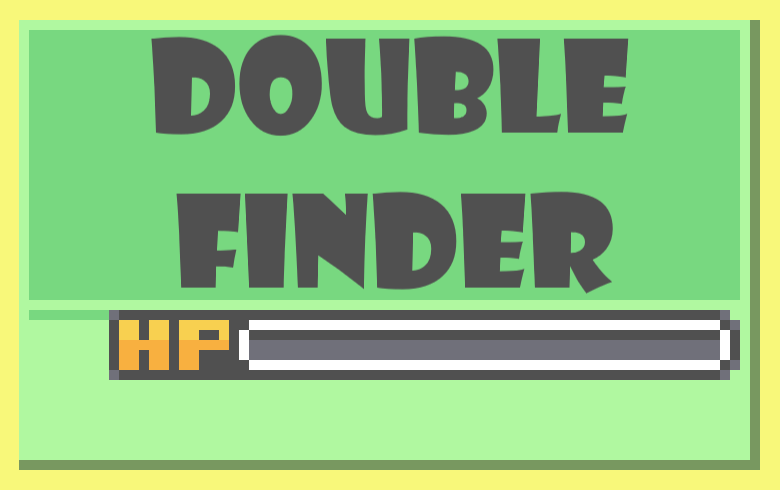
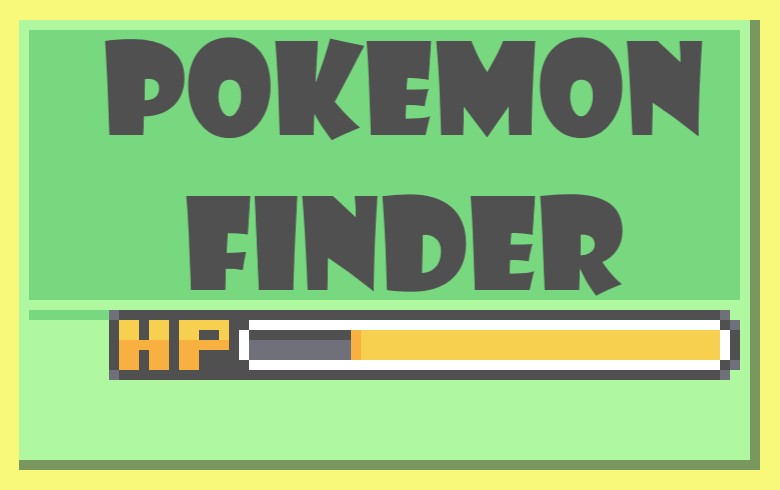
all v1

diff --git a/src/DoubleFinder.jsx b/src/DoubleFinder.jsx
@@ -1,3 +1,111 @@
+import './DoubleFinder.css'
+import DBResource from './DBResource'
+import { useNavigate } from "react-router-dom";
+import React, { Link, useState, useEffect } from 'react';
+import Select from 'react-select'
+import { Tooltip } from 'react-tooltip'
 export default function DoubleFinder() {
-    return (<div>welcom to doublefinder</div>);
+
+    const [pokemon, setPokemon] = useState([]);
+    const [pokedexCalled, setPokedexCalled] = useState(false);
+    const [pokedex, setPokedex] = useState("");
+    const [usersFound, setUsersFound] = useState([]);
+    const [imgUrl, setImgUrl] = useState([]);
+    const [testArray, setTestArray] = useState([1,2,3,4,5,6,7,8,9,10]);
+    useEffect(() => {
+        (async () => {
+          if(!pokedexCalled){
+            setPokedexCalled(true);
+            console.log("calling pokedex:");
+            const foundPokemon  = await resource.getPokedex();
+            console.log(foundPokemon);
+            setPokemon(foundPokemon) ;
+          }
+        })();},[]);
+
+      //static contextType = ThemeContext;
+    
+      let navigate = useNavigate(); 
+      const resource = new DBResource();
+
+      const routeTodex = () =>{ 
+        let path = `/`; 
+        navigate(path);
+      }
+
+      const routeToSelf = () =>{ 
+        let path = ``; 
+        navigate(path);
+      }
+
+      const onChangeHandler = (change) => {
+        setPokedex(change.value);
+        (async () => {
+          console.log("finding users for pokedex:" + change.value);
+          const data  = await resource.getUsersWhoOwnPokemon(change.value);
+          console.log( data);
+          setUsersFound(data);
+
+          const imageUrl2 = new URL(
+            "/pokemon/Normal/" + change.value + ".png",
+            import.meta.url
+          ).href;
+          setImgUrl(imageUrl2);
+          })()
+      
+      };
+
+
+    return (
+<div className="wholeSite">
+    <div className="content">
+    <div className='menu'>
+
+      <button onClick={routeTodex}  className='pokedexMenuItemContainer menuItemContainer'></button>
+      <button onClick={routeToSelf} className='doubleFinderMenuItemContainer menuItemContainer'></button>
+      <button className='ExplenationMenuItemContainer menuItemContainer'></button>
+      <button className='aboutSiteMenuItemContainer menuItemContainer'></button>
+      </div>
+
+      <div className="header">
+        <img src='/streamingfalcon.png' alt="Image" className="logo" /><h1>Pokemon finder</h1><img src="yogieisbar.png" alt="Image" className="logo" />
+      </div>
+      <div className='selectorWrapper'>
+      <div className='selector'>
+           <h4 className='selectTitle'>
+            Pokemon:
+            </h4><div className='selectAndTooltip' >
+              <Select className='selectorSelect'  options={pokemon} onChange={onChangeHandler}  defaultValue={"pokemon"}></Select>
+              <div className="selectIcon">
+              <img data-tooltip-id="my-tooltip"  className='selectIconImg' src="/unown-question.png"></img>
+              <Tooltip id="my-tooltip" 
+                place="top"
+                effect='solid'
+                content="The pokemon that you wanna search for. Only doubles will be shown"/>
+            </div>
+            </div>
+      </div>
+      </div>
+      <div className='dataContainer'>
+        
+        {
+         usersFound.map(el =><div className='userContainer'><div className='userText'>{el.currentOwner}  owns:{el.count} </div>
+         <div>
+          {
+          testArray.map(number => number<=el.count? <img  className='userImage' src= {imgUrl}></img>:'')
+          }
+          {
+              el.count>10?<img  className='userImage' src= "and_more.png"></img>:''
+          }
+        </div>
+        </div> )
+          }
+    
+      </div>
+          
+</div>
+
+</div>
+
+    );
 }

diff --git a/src/DoubleFinder.css b/src/DoubleFinder.css
@@ -1,0 +1,199 @@
+#root {
+    max-width: 70%;
+    width:100%;
+    background-color: azure;
+    margin: 0 auto;
+    padding: 2rem;
+    text-align: center;
+  }
+  
+  .header {
+    display: flex;
+    justify-content:center;
+  }
+  
+  .selector{
+    display: flex;
+    justify-content: center;
+    flex-direction: column;
+    align-content: stretch;
+    align-items: flex-start;
+    width:30%;
+  }
+  
+  .selectorSelect{
+    width:100%;
+  
+  }
+  
+  .selectAndTooltip{
+    width:100%;
+    margin-right: 10px;
+    display: flex;
+  }
+  
+  .selectTitle{
+    margin-bottom: 0;
+    display: flex;
+  }
+  
+  
+  .selectIcon{
+    display: flex;
+    align-items: center;
+  }
+  
+  .selectIconImg{
+    width: 25px;
+      height: 25px;
+      background: white;
+      border: solid 1px;
+      border-radius: 100%;
+      padding: 3px;
+      margin-left: 5px;
+  }
+  
+  .selectorWrapper{
+    width:100%;
+    display: flex;
+    justify-content: center;
+  }
+  
+  .generalData{
+    display: flex;
+    justify-content: space-evenly;
+  }
+  
+  .entries{
+    display: flex;
+    flex-wrap:wrap;
+    justify-content:center;
+  }
+  
+  
+  .footer{
+    display: flex;
+    justify-content: end;
+  }
+  
+  .menu{
+    display: flex;
+    justify-content: center;
+  
+  }
+  
+  .menuItemContainer {
+    width: 20%; 
+    height: 150px;
+    background: url('/to_be_announced.png');
+    background-size:  100% 100%;
+    margin: 5px;
+  }
+  
+  .menuItemContainer:hover {
+    width: 20%; 
+    height: 150px;
+    background: url('/to_be_announced_selected.png');
+    background-size: 100% 100% ;
+    border: 0px !important;
+  }
+  
+  .pokedexMenuItemContainer{
+    background: url('/pokedex_menu.png')  !important ;
+    background-size: 100% 100%  !important; ;
+  }
+  .pokedexMenuItemContainer:hover {
+    background: url('/pokedex_menu_selected.png')  !important;
+    background-size: 100% 100%  !important; ;
+  }
+  
+  .doubleFinderMenuItemContainer{
+    background: url('/doublefinder_menu.png')  !important ;
+    background-size: 100% 100%  !important;;
+  }
+  .doubleFinderMenuItemContainer:hover {
+    background: url('/doublefinder_menu_selected.png')  !important;
+    background-size: 100% 100%   !important;; 
+  }
+  
+  .dataContainer{
+    margin-top: 15px;
+    display: flex;
+    flex-direction: column;
+    align-items: center;
+
+  }
+  
+  .userContainer{
+    background-color: white;
+    border: 1px solid grey;
+    width: 50%;
+    margin: 5px;
+    border-radius: 5px;
+    box-shadow:  2px 2px grey;
+    position: relative;
+    overflow: hidden;
+    height: 40px;
+    display: flex;
+    align-items: center;
+  }
+
+  .userText{
+    width: 30%;
+  }
+
+  .userImage{
+    height: 35px;
+  }
+  
+  .menuItemImage{
+    width: 100%; 
+   }
+  
+  .entry{
+    background-color: white;
+    border: 1px solid grey;
+    width: 15%;
+    margin: 5px;
+    border-radius: 5px;
+    box-shadow:  2px 2px grey;
+    position: relative;
+    overflow: hidden;
+  }
+  
+  .logo {
+    height: 6em;
+    padding: 1.5em;
+    will-change: filter;
+    transition: filter 300ms;
+  }
+  .logo:hover {
+    filter: drop-shadow(0 0 2em #646cffaa);
+  }
+  .logo.react:hover {
+    filter: drop-shadow(0 0 2em #61dafbaa);
+  }
+  
+  @keyframes logo-spin {
+    from {
+      transform: rotate(0deg);
+    }
+    to {
+      transform: rotate(360deg);
+    }
+  }
+  
+  @media (prefers-reduced-motion: no-preference) {
+    a:nth-of-type(2) .logo {
+      animation: logo-spin infinite 20s linear;
+    }
+  }
+  
+  .card {
+    padding: 2em;
+  }
+  
+  .read-the-docs {
+    color: #888;
+  }
+  

diff --git a/src/DBResource.ts b/src/DBResource.ts
@@ -37,6 +37,37 @@ export default class DBResource{
     }
 
     
+    async getPokedex() {
+        let { data, error } = await this.supabase
+        .from('PokemonData')
+        .select("*");
+
+        let options = data.map(pokemon=> {return {value:pokemon.gamePokedex, label:pokemon.monName}}) ; 
+        return  options;
+    }
+
+    async getUsersWhoOwnPokemon(pokedex) {
+        let { data: AllUserData, error:error2} = await this.supabase
+        .from('pokemonCaugthCounter')
+        .select("*")
+        // Filters
+        .eq('pokedex', pokedex);
+
+
+
+        AllUserData.sort(function (a, b) {
+            if (a.count > b.count) {
+              return -1;
+            }
+            if (a.count < b.count) {
+              return 1;
+            }
+            return 0;
+          });
+          return AllUserData;
+
+
+    }
 
     async getUniquePokedexEntries(username) {
         console.log('calling pokedex');

diff --git a/src/App.css b/src/App.css
@@ -85,7 +85,7 @@
 .menuItemContainer {
   width: 20%; 
   height: 150px;
-  background: url('/upscaled menu.png');
+  background: url('/to_be_announced.png');
   background-size:  100% 100%;
   margin: 5px;
 }
@@ -93,7 +93,7 @@
 .menuItemContainer:hover {
   width: 20%; 
   height: 150px;
-  background: url('/upscaled menu_selected.png');
+  background: url('/to_be_announced_selected.png');
   background-size: 100% 100% ;
   border: 0px !important;
 }
